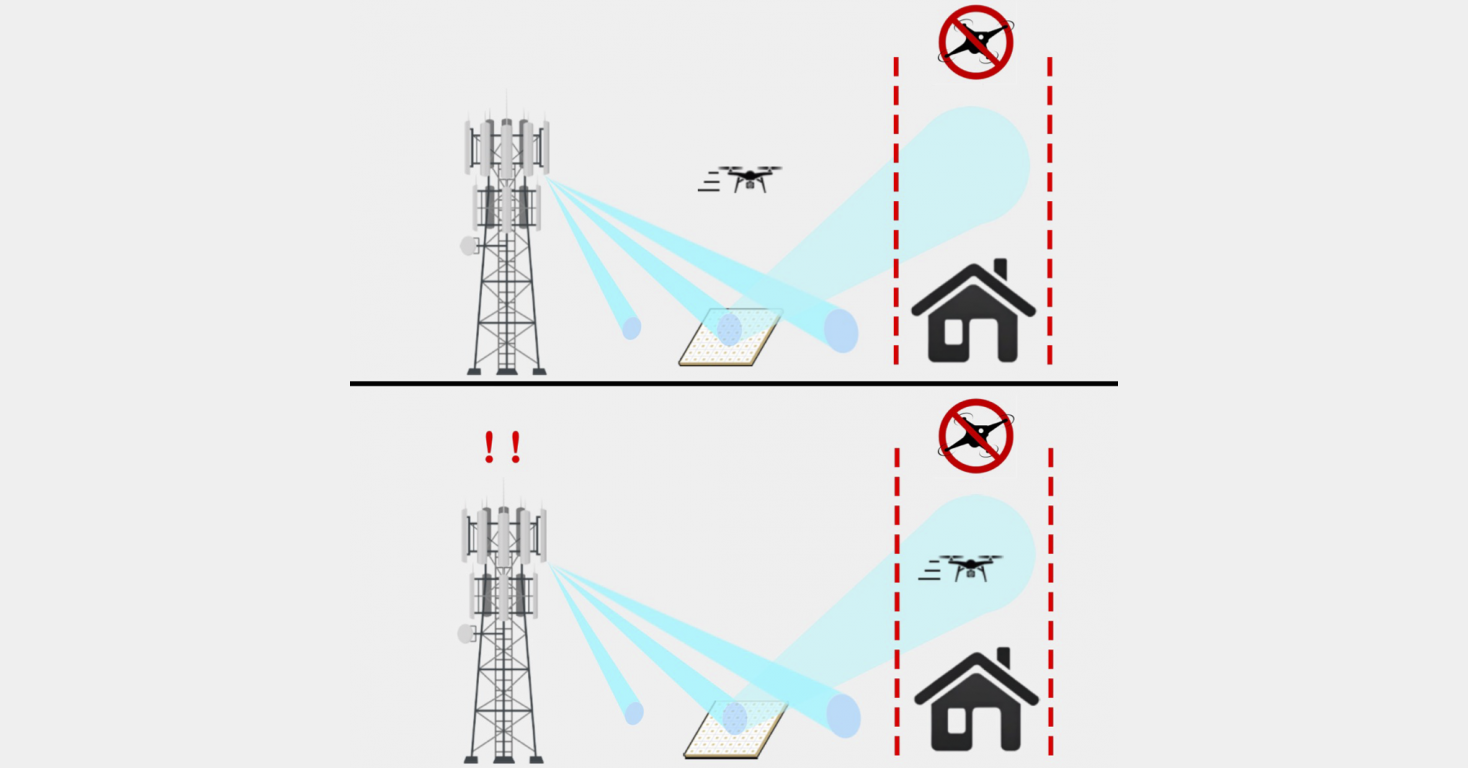
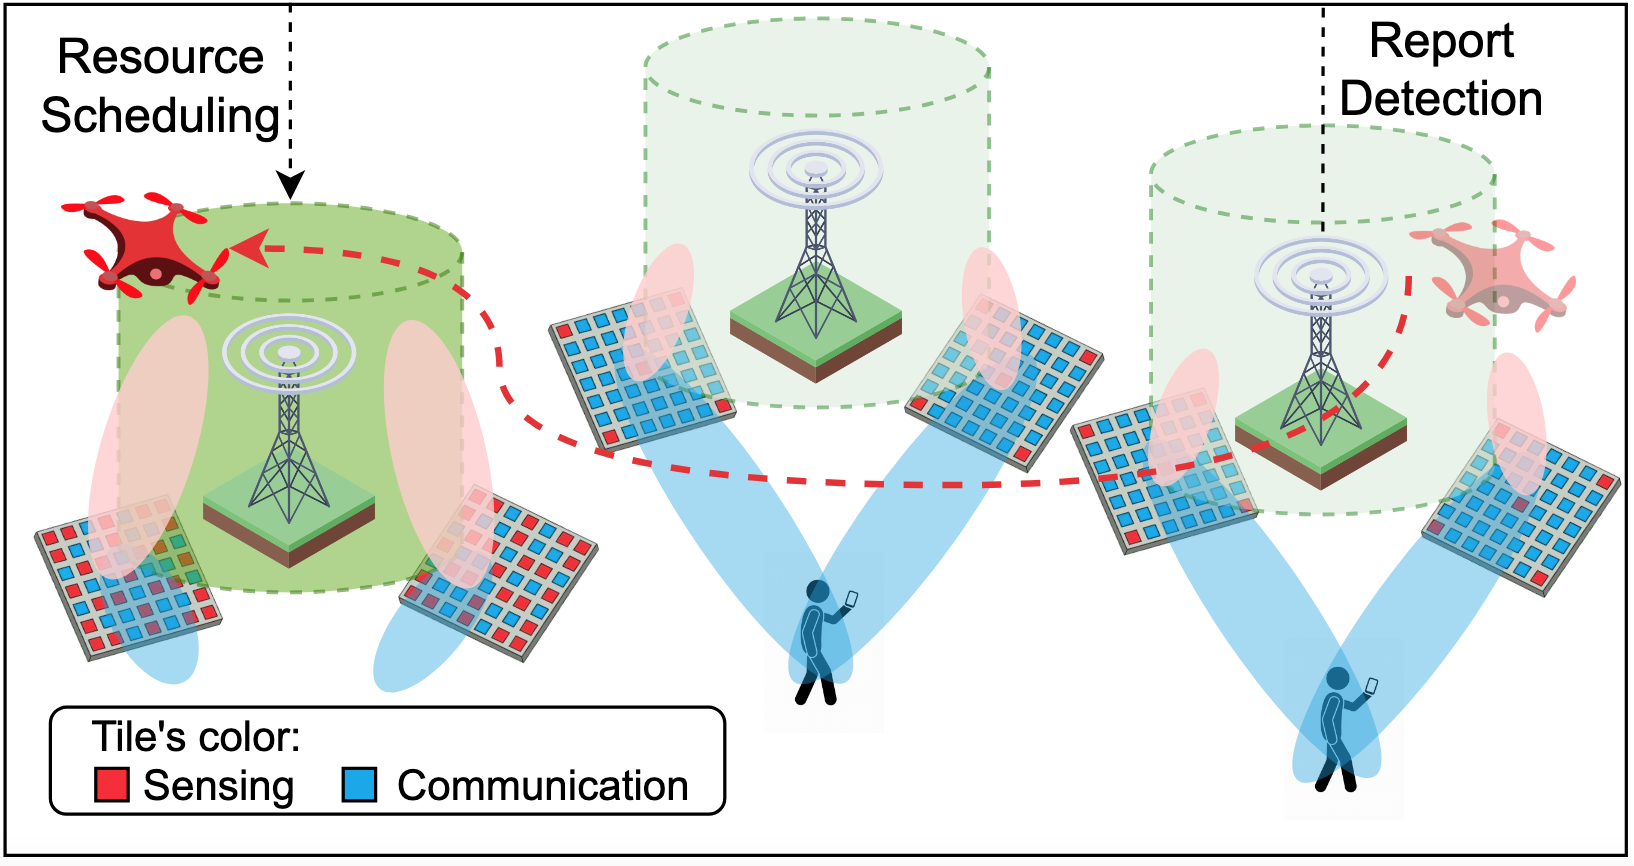
updated media

diff --git a/layouts/tasks/list.html b/layouts/tasks/list.html
@@ -31,13 +31,19 @@
           <div class="task-list">
             {{ $fall2025_tasks := where site.RegularPages "Section" "tasks" }}
             {{ $fall2025_tasks = where $fall2025_tasks ".Params.semester" "fall2025" }}
-            {{ if $fall2025_tasks }}
-              {{ range $fall2025_tasks }}
-                <a href="{{ .RelPermalink }}" class="task-item-link">
+            {{ $sorted_tasks := slice }}
+            {{ range $fall2025_tasks }}
+              {{ $sorted_tasks = $sorted_tasks | append (dict "page" . "date" .Params.due_date) }}
+            {{ end }}
+            {{ $sorted_tasks = sort $sorted_tasks "date" }}
+            {{ if $sorted_tasks }}
+              {{ range $sorted_tasks }}
+                {{ $task := .page }}
+                <a href="{{ $task.RelPermalink }}" class="task-item-link">
                   <div class="task-item">
-                    <h3>{{ .Title }}</h3>
-                    {{ with .Params.due_date }}<p class="task-due-date"><strong>Due:</strong> {{ . }}</p>{{ end }}
-                    {{ with .Summary }}<p class="task-summary">{{ . }}</p>{{ end }}
+                    <h3>{{ $task.Title }}</h3>
+                    {{ with $task.Params.due_date }}<p class="task-due-date"><strong>Due:</strong> {{ dateFormat "January 2, 2006" . }}</p>{{ end }}
+                    {{ with $task.Summary }}<p class="task-summary">{{ . }}</p>{{ end }}
                   </div>
                 </a>
               {{ end }}
@@ -52,13 +58,19 @@
           <div class="task-list">
             {{ $spring2026_tasks := where site.RegularPages "Section" "tasks" }}
             {{ $spring2026_tasks = where $spring2026_tasks ".Params.semester" "spring2026" }}
-            {{ if $spring2026_tasks }}
-              {{ range $spring2026_tasks }}
-                <a href="{{ .RelPermalink }}" class="task-item-link">
+            {{ $sorted_tasks := slice }}
+            {{ range $spring2026_tasks }}
+              {{ $sorted_tasks = $sorted_tasks | append (dict "page" . "date" .Params.due_date) }}
+            {{ end }}
+            {{ $sorted_tasks = sort $sorted_tasks "date" }}
+            {{ if $sorted_tasks }}
+              {{ range $sorted_tasks }}
+                {{ $task := .page }}
+                <a href="{{ $task.RelPermalink }}" class="task-item-link">
                   <div class="task-item">
-                    <h3>{{ .Title }}</h3>
-                    {{ with .Params.due_date }}<p class="task-due-date"><strong>Due:</strong> {{ . }}</p>{{ end }}
-                    {{ with .Summary }}<p class="task-summary">{{ . }}</p>{{ end }}
+                    <h3>{{ $task.Title }}</h3>
+                    {{ with $task.Params.due_date }}<p class="task-due-date"><strong>Due:</strong> {{ . }}</p>{{ end }}
+                    {{ with $task.Summary }}<p class="task-summary">{{ . }}</p>{{ end }}
                   </div>
                 </a>
               {{ end }}
@@ -336,7 +348,7 @@ html.dark .task-item h3 {
 }
 
 html.dark .task-item-link:hover .task-item h3 {
-  color: #28a745;
+  color: #6ee7b7;
 }
 
 html.dark .tab-header.active {

diff --git a/layouts/team/baseof.html b/layouts/team/baseof.html
@@ -1,11 +1,11 @@
 <!DOCTYPE html>
-<html lang="{{ site.Language.Lang }}" {{ if in site.Language.Lang "ar" }}dir="rtl"{{ end }}>
+<html lang="{{ site.Language.Lang }}" {{ if in site.Language.Lang "ar" }}dir="rtl"{{ end }} data-wc-theme-default="{{ site.Params.appearance.mode | default "system" }}">
 <head>
   {{ partial "site_head" . }}
   <!-- Font Awesome for social icons -->
   <link rel="stylesheet" href="https://cdnjs.cloudflare.com/ajax/libs/font-awesome/6.0.0/css/all.min.css">
 </head>
-<body>
+<body class="dark:bg-hb-dark dark:text-white page-wrapper" id="top">
   {{ partial "components/headers/navbar" . }}
   
   <main>

diff --git a/content/_index.md b/content/_index.md
@@ -1,7 +1,7 @@
 ---
 # Leave the homepage title empty to use the site title
 title: ""
-date: 2022-10-24
+date: 2025-10-24
 type: landing
 
 design:
@@ -15,11 +15,11 @@ sections:
       text: "A UH Manoa ECE VIP Project by Yao Zheng"
       primary_action:
         text: "Request to Join"
-        url: "mailto:yaozheng@hawaii.edu?subject=[MONET VIP] Request to Join MONET&body=Hello Professor Zheng,%0D%0A%0D%0AI would like to request more information on the MONET VIP project, and am wondering if you are accepting new applicants.%0D%0A%0D%0AThank you,%0D%0A"
+        url: "mailto:yaozheng@hawaii.edu?subjecthugo=[MONET VIP] Request to Join MONET&body=Hello Professor Zheng,%0D%0A%0D%0AI would like to request more information on the MONET VIP project, and am wondering if you are accepting new applicants.%0D%0A%0D%0AThank you,%0D%0A"
         icon: "sparkles"
       secondary_action:
         text: "Learn More"
-        url: "/~monet/about"
+        url: "/~vipmonet/about"
       # announcement:
       #   text: "🎉 New features available now!"
       #   link:

diff --git a/content/about/_index.md b/content/about/_index.md
@@ -3,12 +3,11 @@ title: About
 subtitle: MONET
 type: about
 date: 2025-10-28T04:14:54-08:00
-filename: facility/monet/monet-featured.png
+filename: monet-featured-bottom.png
 
 ---
 
 Imagine a future where our wireless devices do more than just talk to each other. They can also "see" and "feel" their surroundings, gathering valuable information about the environment. This is the promise of Integrated Sensing and Communication (ISAC), and millimeter-wave (mmWave) frequencies are the key to unlocking its full potential. Leveraging the abundant bandwidth at mmWave band (30GHz ~ 300GHz), which are currently being explored for future generation of wireless communication systems (cellular and Wi-Fi), radar-like precise and multi-target detection can be implemented, with applications in drone detection, physiological monitoring, smart RAN etc. This VIP project, therefore, sees to develop new techniques and technologies to make ISAC a reality at mmWave frequencies.
-
 
 # Class Requirements
 ## Logistics {#logistics}

diff --git a/content/tasks/fall2025-research-review.md b/content/tasks/fall2025-research-review.md
@@ -2,7 +2,7 @@
 title: "Research Paper Review"
 date: 2025-11-04
 semester: "fall2025"
-due_date: "December 15, 2025"
+due_date: "2025-12-15"
 ---
 
 Review and analyze the latest research papers in reflectarray technology. Prepare a comprehensive summary highlighting key innovations and methodologies.
@@ -10,11 +10,9 @@ Review and analyze the latest research papers in reflectarray technology. Prepar
 <!--more-->
 
 ## Objectives
-- Identify recent advances in reflectarray design
-- Compare different simulation approaches
-- Summarize findings in a 10-page report
-
+- Optimize resource allocation: Find the best way to share resources like power and bandwidth between sensing and communication tasks.
+- Showcase applications: demonstrate ISAC applications in drone detection, physiological sensing, smart RAN, etc.
 ## Deliverables
 - Written report (PDF)
 - Presentation slides (PowerPoint/PDF)
-- Bibliography with at least 15 recent sources
+- Bibliography with at least 10 recent sources

diff --git a/content/tasks/fall2025-wireless-insite.md b/content/tasks/fall2025-wireless-insite.md
@@ -1,0 +1,19 @@
+---
+title: "Wireless InSite Simulation Project"
+date: 2025-11-04
+semester: "fall2025"
+due_date: "2025-11-30"
+---
+
+Simulate a mmWave environment, to explore possible solutions in creating multi-path solutions for mmWave communications.
+
+<!--more-->
+
+## Requirements
+- Develop efficient hardware: Create integrated circuits that can perform both sensing and communication functions with minimal power consumption.
+- Design smart waveforms: Create signals that can simultaneously transmit data and gather information about the environment.
+
+## Deliverables
+- Wireless InSite project files
+- Simulation results and analysis
+- Technical report with methodology and conclusions
